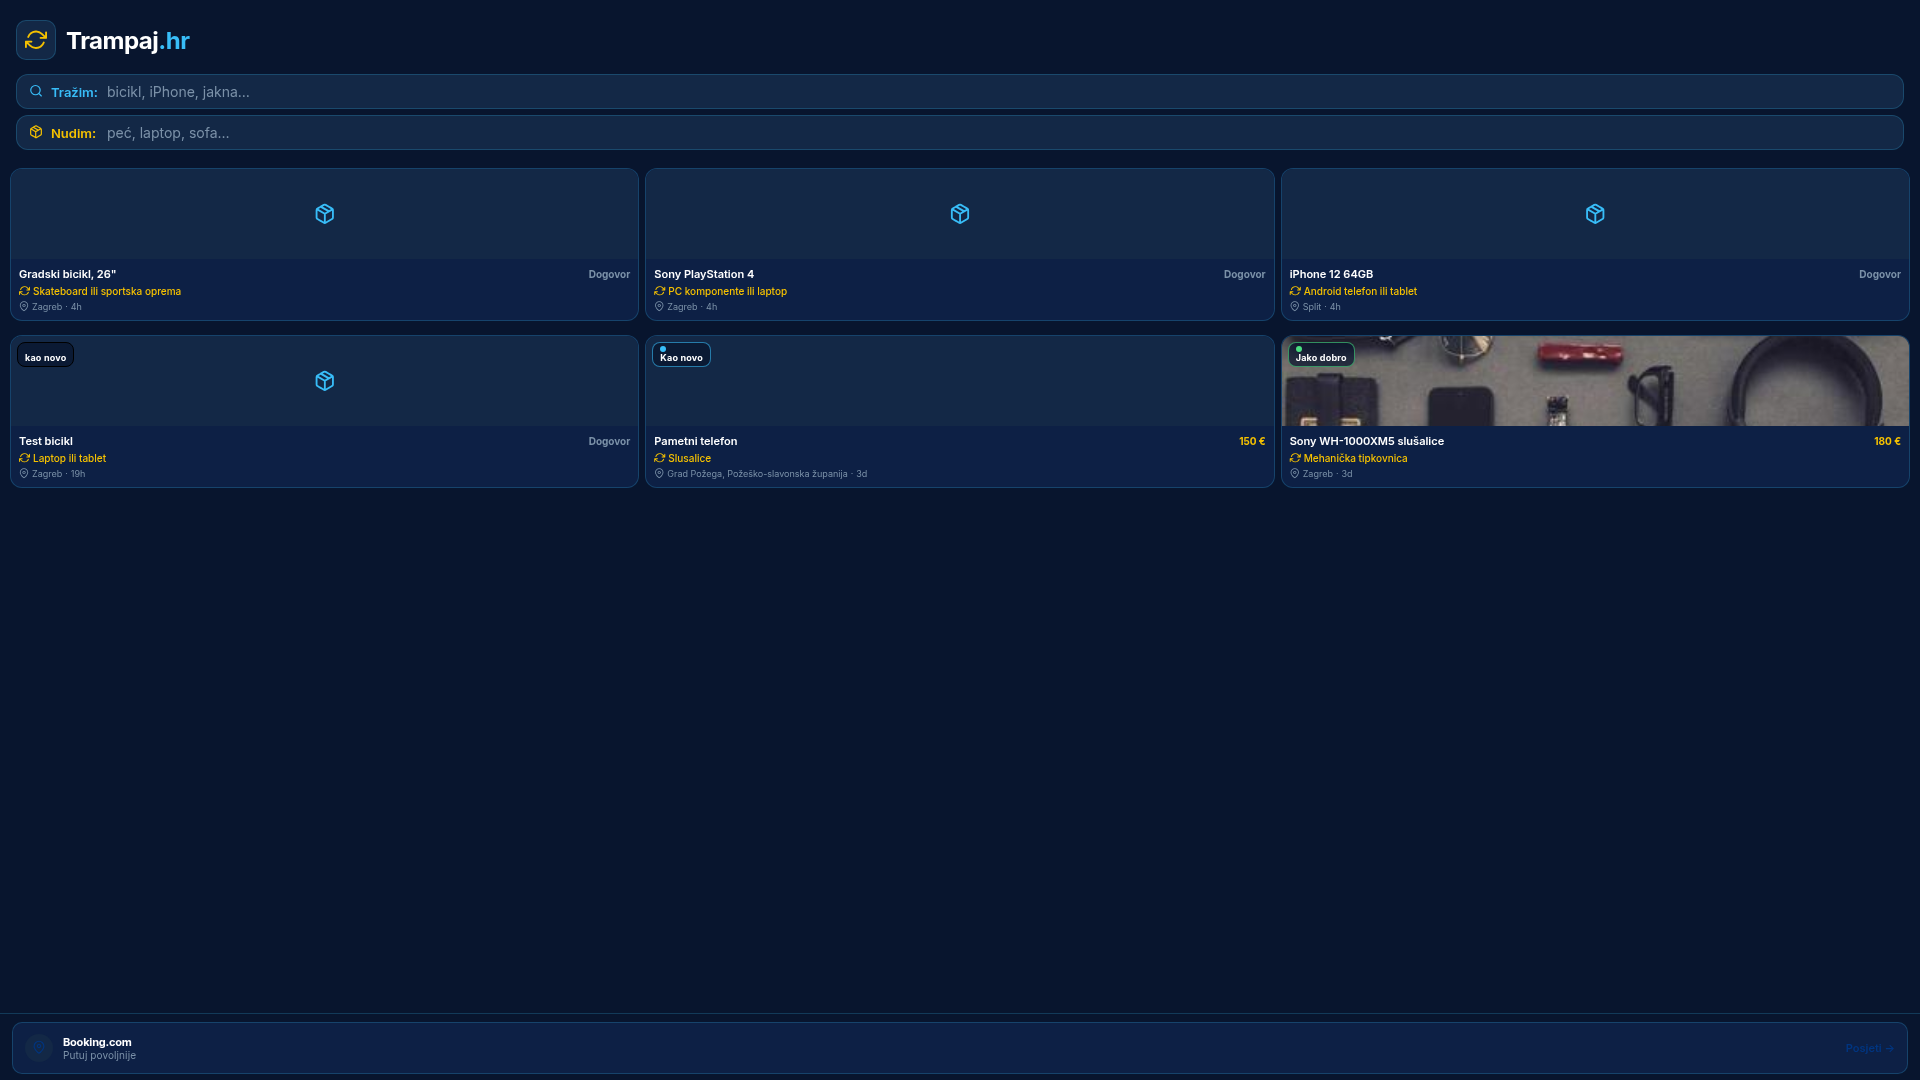
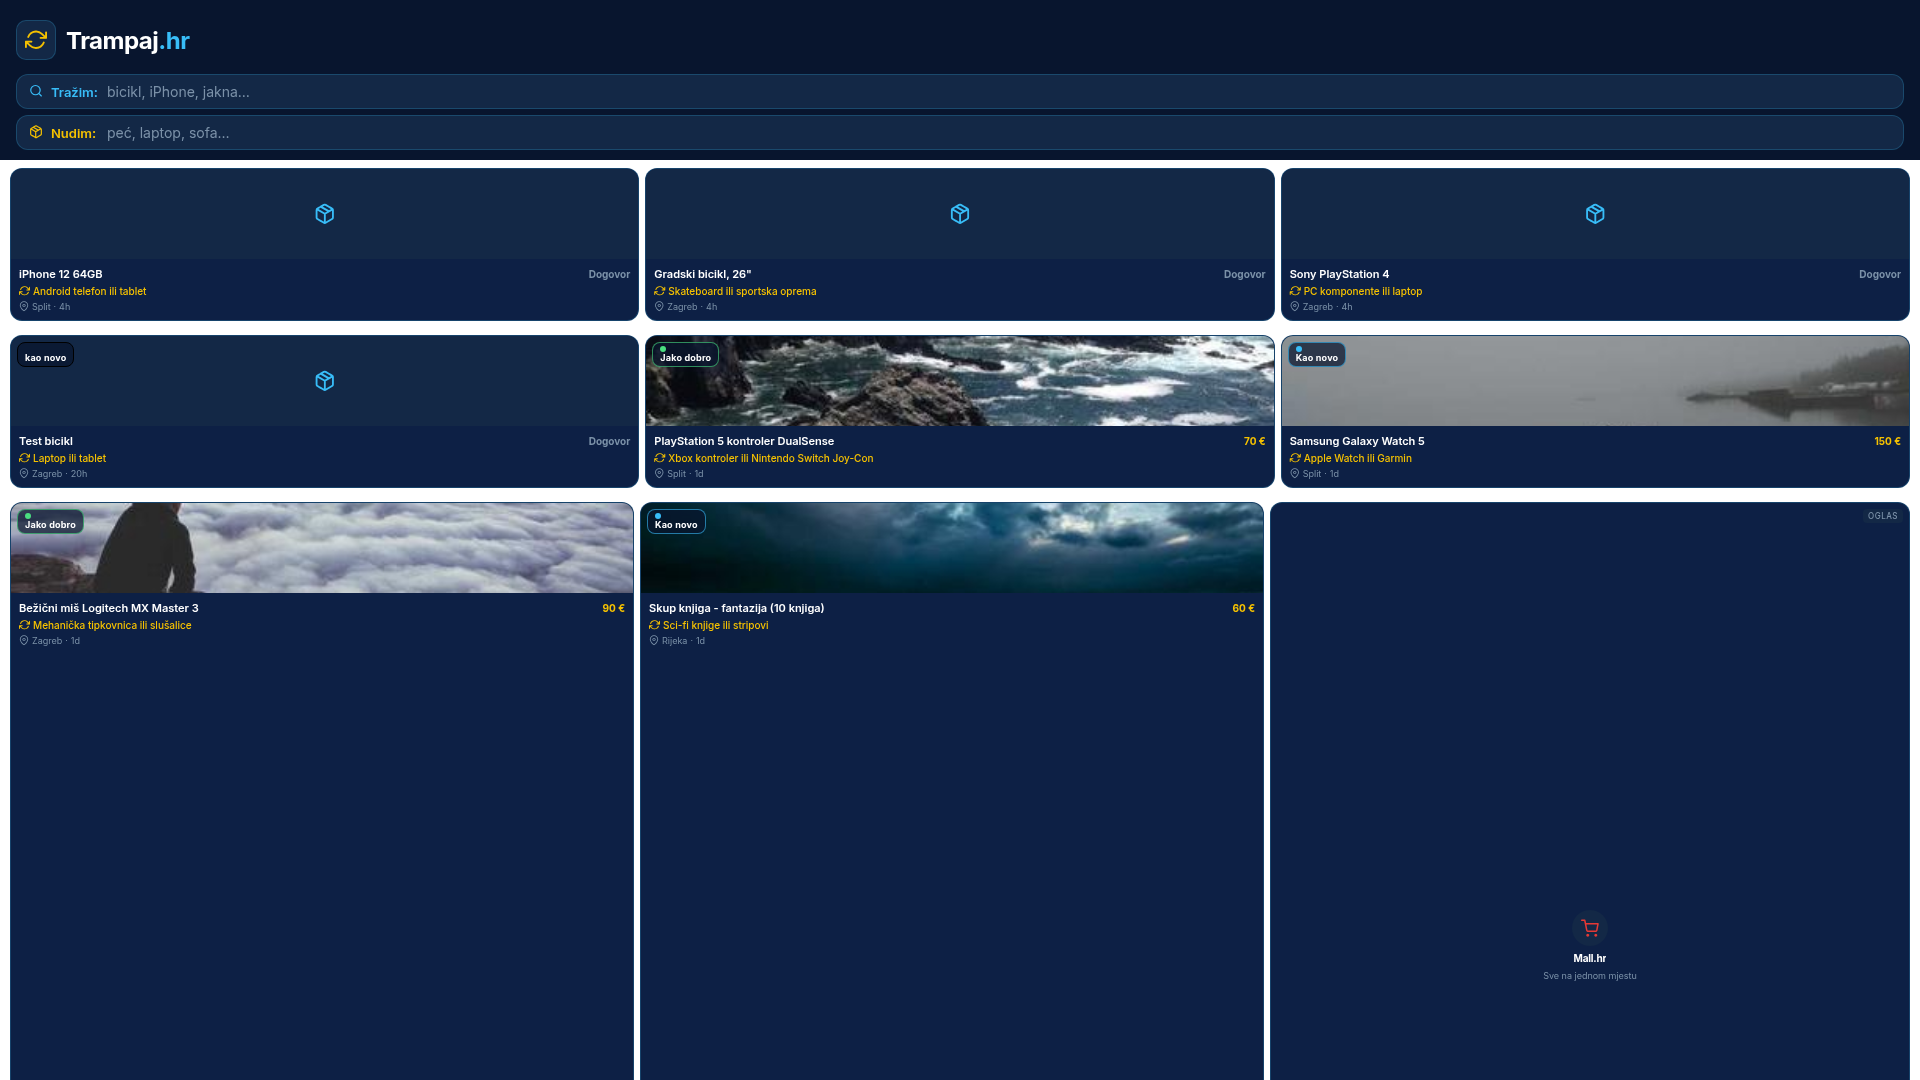
Add more demo listings and improve seeding logic
Update `seedIfEmpty` in `index.ts` to seed all 28 demo listings with a threshold of >= 20, and add a duplicate check by title. Also, install `pg` package in `scripts/package.json` and `pnpm-lock.yaml`.

Replit-Commit-Author: Agent
Replit-Commit-Session-Id: cd74122b-124f-4e06-a3ed-a6dc597d5de4
Replit-Commit-Checkpoint-Type: full_checkpoint
Replit-Commit-Event-Id: b7b88802-455f-4262-8d9c-b777fb00061b
Replit-Commit-Screenshot-Url: https://storage.googleapis.com/screenshot-production-us-central1/88ef2a6c-7a33-487b-979b-872bea2e7663/cd74122b-124f-4e06-a3ed-a6dc597d5de4/6wIajJ3
Replit-Helium-Checkpoint-Created: true

Changed region(s): [[0.0, 0.1222, 1.0, 1.0], [0.8125, 0.8861, 0.8438, 0.9167]]

diff --git a/scripts/src/seed-demo-listings.ts b/scripts/src/seed-demo-listings.ts
@@ -1,0 +1,93 @@
+import pg from "pg";
+import { randomUUID } from "crypto";
+
+const { Pool } = pg;
+const pool = new Pool({ connectionString: process.env.DATABASE_URL });
+
+const DEMO_USER_ID = "00000000-0000-0000-0000-000000000001";
+
+const ALL_SAMPLE_LISTINGS = [
+  { title: "Sony slušalice WH-1000XM4", description: "Odlične slušalice s redukcijom buke, malo korištene. U originalnoj kutiji, sve ispravno radi.", category: "Elektronika", condition: "Jako dobro", wantedFor: "Bežična tipkovnica ili miš visokog kvaliteta", price: 180, imageUris: '["https://picsum.photos/seed/headphones1/400/300"]', phone: "[phone redacted]", location: "Zagreb", packageSize: "small", packageBoxSize: "M", packageWeight: null, daysAgo: 2 },
+  { title: "Zimska jakna XL, North Face", description: "Topla zimska jakna, nosio je jednu sezonu. Boja tamno plava, odlično stanje.", category: "Odjeća", condition: "Jako dobro", wantedFor: "Ljetna jakna ili sportska oprema", price: null, imageUris: '["https://picsum.photos/seed/jacket2/400/300"]', phone: null, location: "Split", packageSize: "small", packageBoxSize: "M", packageWeight: null, daysAgo: 5 },
+  { title: "Skup knjiga - fantazija (10 knjiga)", description: "Komplet knjiga Patricka Rothfussa i Brandona Sandersona. Sve u odličnom stanju.", category: "Knjige", condition: "Kao novo", wantedFor: "Sci-fi knjige ili stripovi", price: 60, imageUris: '["https://picsum.photos/seed/books3/400/300"]', phone: "[phone redacted]", location: "Rijeka", packageSize: "medium", packageBoxSize: null, packageWeight: 4, daysAgo: 1 },
+  { title: `Bicikl - gradski, 26"`, description: "Gradski bicikl, servisiran prošle godine. Nova guma naprijed. Boja srebrna.", category: "Sport", condition: "Dobro", wantedFor: "Roleri ili električni romobil", price: 350, imageUris: '["https://picsum.photos/seed/bicycle4/400/300"]', phone: "[phone redacted]", location: "Osijek", packageSize: "large", packageBoxSize: null, packageWeight: null, daysAgo: 3 },
+  { title: "Stolna lampa - industrijski stil", description: "Metalna lampa, crna boja, LED žarulja uključena. Idealna za radni stol.", category: "Namještaj", condition: "Dobro", wantedFor: "Polica za knjige ili mali stol", price: null, imageUris: '["https://picsum.photos/seed/lamp5/400/300"]', phone: null, location: "Zagreb", packageSize: "medium", packageBoxSize: null, packageWeight: 3, daysAgo: 7 },
+  { title: "Roleri Rollerblade, vel. 42", description: "Inline roleri u odličnom stanju, korišteni svega par puta. Kaciga uključena.", category: "Sport", condition: "Kao novo", wantedFor: "Bicikl gradski ili električni romobil", price: 120, imageUris: '["https://picsum.photos/seed/skates6/400/300"]', phone: "[phone redacted]", location: "Zagreb", packageSize: "small", packageBoxSize: "L", packageWeight: null, daysAgo: 2 },
+  { title: "Bežični miš Logitech MX Master 3", description: "Premium miš, ergonomski, savršen za dugotrajni rad. Baterija traje 70 dana.", category: "Elektronika", condition: "Jako dobro", wantedFor: "Mehanička tipkovnica ili slušalice", price: 90, imageUris: '["https://picsum.photos/seed/mouse7/400/300"]', phone: null, location: "Zagreb", packageSize: "small", packageBoxSize: "S", packageWeight: null, daysAgo: 1 },
+  { title: "iPad 9. generacija, 64GB", description: "iPad u odličnom stanju, s torbom i punjačem. Bez ogrebotina na ekranu.", category: "Elektronika", condition: "Jako dobro", wantedFor: "Laptop ili MacBook bilo koje generacije", price: 300, imageUris: '["https://picsum.photos/seed/ipad9/400/300"]', phone: "[phone redacted]", location: "Zagreb", packageSize: "small", packageBoxSize: "S", packageWeight: null, daysAgo: 3 },
+  { title: "Električna gitara + pojačalo", description: "Squier Stratocaster u crnoj boji + Fender pojačalo 15W. Savršeno za početnike.", category: "Glazba", condition: "Dobro", wantedFor: "Akustična gitara ili ukulele", price: 250, imageUris: '["https://picsum.photos/seed/guitar9/400/300"]', phone: "[phone redacted]", location: "Zagreb", packageSize: "large", packageBoxSize: null, packageWeight: null, daysAgo: 4 },
+  { title: "Dječja kolica Bugaboo", description: "Kolica u odličnom stanju, lako sklopiva. Sva dodatna oprema uključena.", category: "Djeca", condition: "Jako dobro", wantedFor: "Dječje autosjedalište ili hodalica", price: null, imageUris: '["https://picsum.photos/seed/pram10/400/300"]', phone: "[phone redacted]", location: "Zadar", packageSize: "large", packageBoxSize: null, packageWeight: null, daysAgo: 6 },
+  { title: "Samsung Galaxy Watch 5", description: "Pametni sat, 44mm, crni. Baterija drži 40h, GPS, NFC. Sve ispravno.", category: "Elektronika", condition: "Kao novo", wantedFor: "Apple Watch ili Garmin", price: 150, imageUris: '["https://picsum.photos/seed/watch11/400/300"]', phone: null, location: "Split", packageSize: "small", packageBoxSize: "S", packageWeight: null, daysAgo: 1 },
+  { title: "Teniski reket Wilson + torba", description: "Wilson Clash 100 reket + teniška torba. Žice nove, reket malo korišten.", category: "Sport", condition: "Jako dobro", wantedFor: "Badminton oprema ili squash reket", price: 120, imageUris: '["https://picsum.photos/seed/tennis12/400/300"]', phone: "[phone redacted]", location: "Zagreb", packageSize: "medium", packageBoxSize: null, packageWeight: 2, daysAgo: 2 },
+  { title: "Kuhinjski robot Kenwood Chef", description: "Moćan kuhinjski robot 1500W s priključcima za gnječenje, miješanje, ribanje. U kutiji.", category: "Kućanstvo", condition: "Jako dobro", wantedFor: "Aparat za kavu ili blender", price: 200, imageUris: '["https://picsum.photos/seed/robot13/400/300"]', phone: "[phone redacted]", location: "Varaždin", packageSize: "medium", packageBoxSize: null, packageWeight: 5, daysAgo: 8 },
+  { title: "Vintage Levi's 501 traperice, vel. 32", description: "Originalne vintage 501-ice, wash iz 90-ih. Odlično stanje, malo nošene.", category: "Odjeća", condition: "Jako dobro", wantedFor: "Vintage majice ili denim jakna", price: 45, imageUris: '["https://picsum.photos/seed/levis14/400/300"]', phone: null, location: "Zagreb", packageSize: "small", packageBoxSize: "M", packageWeight: null, daysAgo: 3 },
+  { title: "DJI Mavic Mini 2 dron", description: "Dron u kutiji sa svim opremama. 3 baterije, punjač, torba. Letio par puta.", category: "Elektronika", condition: "Kao novo", wantedFor: "Akcijska kamera ili gimbal", price: 380, imageUris: '["https://picsum.photos/seed/drone15/400/300"]', phone: "[phone redacted]", location: "Dubrovnik", packageSize: "small", packageBoxSize: "L", packageWeight: null, daysAgo: 2 },
+  { title: "Bonsai drvo - ficus, 15 godina star", description: "Odrasli ficus bonsai u keramičkoj posudi. Visina 35cm. Lako ga je održavati.", category: "Vrt", condition: "Dobro", wantedFor: "Sukulenti ili kaktuski kolekcija", price: null, imageUris: '["https://picsum.photos/seed/bonsai16/400/300"]', phone: "[phone redacted]", location: "Karlovac", packageSize: "medium", packageBoxSize: null, packageWeight: 3, daysAgo: 10 },
+  { title: "PlayStation 5 kontroler DualSense", description: "Sony PS5 kontroler, bijeli. Haptic feedback, adaptivni okidači, punjač u kutiji.", category: "Elektronika", condition: "Jako dobro", wantedFor: "Xbox kontroler ili Nintendo Switch Joy-Con", price: 70, imageUris: '["https://picsum.photos/seed/ps5ctrl17/400/300"]', phone: null, location: "Split", packageSize: "small", packageBoxSize: "M", packageWeight: null, daysAgo: 1 },
+  { title: "Kožna sofa - trosjed, smeđa", description: "Kvalitetna kožna sofa, malo izlizano sjedalo ali strukturno savršeno. Dostava moguća.", category: "Namještaj", condition: "Dobro", wantedFor: "Blagovaonski stol ili stolice", price: 500, imageUris: '["https://picsum.photos/seed/sofa18/400/300"]', phone: "[phone redacted]", location: "Zagreb", packageSize: "large", packageBoxSize: null, packageWeight: null, daysAgo: 12 },
+  { title: "Canon EOS 250D + objektiv 18-55mm", description: "DSLR fotoaparat za početnike, 24MP. Samo 3000 okidanja. Torba i 2 baterije.", category: "Elektronika", condition: "Kao novo", wantedFor: "Mirrorless fotoaparat ili objektiv 50mm", price: 450, imageUris: '["https://picsum.photos/seed/canon19/400/300"]', phone: "[phone redacted]", location: "Rijeka", packageSize: "small", packageBoxSize: "L", packageWeight: null, daysAgo: 4 },
+  { title: "Snowboard komplet 155cm", description: "Snowboard 155cm + vezovi + cipele vel. 43. Korišten 2 sezone.", category: "Sport", condition: "Dobro", wantedFor: "Skije s vezovima ili splitboard", price: 280, imageUris: '["https://picsum.photos/seed/snowboard20/400/300"]', phone: "[phone redacted]", location: "Zagreb", packageSize: "large", packageBoxSize: null, packageWeight: null, daysAgo: 15 },
+  { title: "Saksofon alto - Yamaha YAS-280", description: "Alto saksofon za početnike i amatere. Dolazi s futrolom i notama.", category: "Glazba", condition: "Jako dobro", wantedFor: "Klavijatura ili truba", price: 350, imageUris: '["https://picsum.photos/seed/sax21/400/300"]', phone: null, location: "Osijek", packageSize: "medium", packageBoxSize: null, packageWeight: 4, daysAgo: 5 },
+  { title: "Survival oprema komplet", description: "Set za preživljavanje: šator 2 mjesta, vreća za spavanje -10°C, headlamp, nož.", category: "Sport", condition: "Jako dobro", wantedFor: "Kajakaška oprema ili penjačka", price: 150, imageUris: '["https://picsum.photos/seed/survival22/400/300"]', phone: "[phone redacted]", location: "Karlovac", packageSize: "medium", packageBoxSize: null, packageWeight: 6, daysAgo: 7 },
+  { title: "Espresso aparat De'Longhi Dedica", description: "Slim dizajn, 15 bar pritisak. Savršeno kafe svaki put. U odličnom stanju.", category: "Kućanstvo", condition: "Jako dobro", wantedFor: "French press komplet ili Moka lonac set", price: 100, imageUris: '["https://picsum.photos/seed/espresso23/400/300"]', phone: null, location: "Zagreb", packageSize: "small", packageBoxSize: "L", packageWeight: null, daysAgo: 2 },
+  { title: "Yoga oprema komplet - prostirka + blokovi", description: "Manduka PRO prostirka + 2 pluta bloka + remen. Sve kao novo.", category: "Sport", condition: "Kao novo", wantedFor: "Pilates oprema ili fitnes gume", price: null, imageUris: '["https://picsum.photos/seed/yoga24/400/300"]', phone: "[phone redacted]", location: "Zagreb", packageSize: "medium", packageBoxSize: null, packageWeight: 3, daysAgo: 3 },
+  { title: "Električni romobil Xiaomi Pro 2", description: "E-romobil domet 45km, max 25km/h. Malo korišten, punjač u kutiji.", category: "Prijevoz", condition: "Jako dobro", wantedFor: "Električni bicikl ili skateboard", price: 350, imageUris: '["https://picsum.photos/seed/scooter25/400/300"]', phone: "[phone redacted]", location: "Split", packageSize: "large", packageBoxSize: null, packageWeight: null, daysAgo: 6 },
+  { title: "Uljana slika - apstraktan motiv 80x60cm", description: "Ručno rađena uljana slika na platnu. Savršeno za dnevni boravak.", category: "Umjetnost", condition: "Kao novo", wantedFor: "Skulptura ili fotografska grafika", price: 80, imageUris: '["https://picsum.photos/seed/painting26/400/300"]', phone: null, location: "Zagreb", packageSize: "medium", packageBoxSize: null, packageWeight: 2, daysAgo: 9 },
+  { title: "3D printer - Prusa Mini+", description: "Prusa Mini+ build volume 18x18x18cm. Malo korišten, kalibriran. Filament uključen.", category: "Elektronika", condition: "Jako dobro", wantedFor: "CNC glodalica ili laser gravir", price: 400, imageUris: '["https://picsum.photos/seed/printer27/400/300"]', phone: "[phone redacted]", location: "Zagreb", packageSize: "medium", packageBoxSize: null, packageWeight: 4, daysAgo: 5 },
+  { title: "Kolekcija LEGO Star Wars - 5 setova", description: "5 složenih LEGO setova SW, sve figure, uputstva, originalne kutije. Bez nedostajućih dijelova.", category: "Igračke", condition: "Jako dobro", wantedFor: "LEGO Technic ili kolekcija Funko Pop", price: 220, imageUris: '["https://picsum.photos/seed/lego28/400/300"]', phone: null, location: "Varaždin", packageSize: "medium", packageBoxSize: null, packageWeight: 5, daysAgo: 4 },
+];
+
+async function main() {
+  const client = await pool.connect();
+  try {
+    // Ensure demo user exists
+    const userCheck = await client.query(
+      "SELECT id FROM users WHERE id = $1",
+      [DEMO_USER_ID]
+    );
+    if (userCheck.rowCount === 0) {
+      await client.query(
+        `INSERT INTO users (id, username, email, password_hash, is_verified, created_at, updated_at)
+         VALUES ($1, $2, $3, $4, true, NOW(), NOW())
+         ON CONFLICT (id) DO NOTHING`,
+        [DEMO_USER_ID, "TrampaDemo", "[email redacted]", "placeholder_hash"]
+      );
+      console.log("Created TrampaDemo user");
+    }
+
+    // Fetch existing titles
+    const existingRes = await client.query("SELECT title FROM listings");
+    const existingTitles = new Set(existingRes.rows.map((r: { title: string }) => r.title));
+
+    let inserted = 0;
+    let skipped = 0;
+
+    for (const l of ALL_SAMPLE_LISTINGS) {
+      if (existingTitles.has(l.title)) { skipped++; continue; }
+      const createdAt = new Date(Date.now() - l.daysAgo * 86400000);
+      await client.query(
+        `INSERT INTO listings
+           (id, user_id, title, description, category, condition, wanted_for, price,
+            image_uris, phone, location, package_size, package_box_size, package_weight,
+            status, moderation_status, nudim_tags, trazim_tags, created_at, updated_at)
+         VALUES ($1,$2,$3,$4,$5,$6,$7,$8,$9,$10,$11,$12,$13,$14,'active','active','[]','[]',$15,$15)`,
+        [
+          randomUUID(), DEMO_USER_ID, l.title, l.description, l.category,
+          l.condition, l.wantedFor, l.price,
+          l.imageUris, l.phone, l.location,
+          l.packageSize, l.packageBoxSize, l.packageWeight,
+          createdAt,
+        ]
+      );
+      inserted++;
+    }
+
+    const countRes = await client.query("SELECT COUNT(*) FROM listings");
+    console.log(`Done — inserted: ${inserted}, skipped (duplicate): ${skipped}, total in DB: ${countRes.rows[0].count}`);
+  } finally {
+    client.release();
+    await pool.end();
+  }
+}
+
+main().catch((e) => { console.error(e); process.exit(1); });

diff --git a/artifacts/api-server/src/index.ts b/artifacts/api-server/src/index.ts
@@ -49,7 +49,7 @@ async function initStripe() {
 async function seedIfEmpty() {
   try {
     const [row] = await db.select({ c: count() }).from(listingsTable);
-    if ((row?.c ?? 0) > 0) return;
+    if ((row?.c ?? 0) >= 20) return; // already seeded enough
 
     const DEMO_USER_ID = "00000000-0000-0000-0000-000000000001";
     const existingUser = await db.select({ id: usersTable.id })
@@ -66,18 +66,45 @@ async function seedIfEmpty() {
       });
     }
 
+    // Fetch existing titles to avoid duplicates when re-seeding a partially-filled DB
+    const existingRows = await db.select({ title: listingsTable.title }).from(listingsTable);
+    const existingTitles = new Set(existingRows.map((r) => r.title));
+
     const demoListings = [
-      { title: "Sony slušalice WH-1000XM4", description: "Odlične slušalice s redukcijom buke, malo korištene. U originalnoj kutiji, sve ispravno radi.", category: "Elektronika", condition: "Jako dobro", wantedFor: "Bežična tipkovnica ili miš visokog kvaliteta", price: 180, imageUris: '["https://picsum.photos/seed/headphones1/400/300"]', phone: "[phone redacted]", location: "Zagreb", packageSize: "small", packageBoxSize: "M" },
-      { title: "Zimska jakna XL, North Face", description: "Topla zimska jakna, nosio je jednu sezonu. Boja tamno plava, odlično stanje.", category: "Odjeća", condition: "Jako dobro", wantedFor: "Ljetna jakna ili sportska oprema", price: null, imageUris: '["https://picsum.photos/seed/jacket2/400/300"]', phone: null, location: "Split", packageSize: "small", packageBoxSize: "M" },
-      { title: "Skup knjiga - fantazija (10 knjiga)", description: "Komplet knjiga Patricka Rothfussa i Brandona Sandersona. Sve u odličnom stanju.", category: "Knjige", condition: "Kao novo", wantedFor: "Sci-fi knjige ili stripovi", price: 60, imageUris: '["https://picsum.photos/seed/books3/400/300"]', phone: "[phone redacted]", location: "Rijeka", packageSize: "medium", packageBoxSize: null },
-      { title: "Bicikl - gradski, 26\"", description: "Gradski bicikl, servisiran prošle godine. Nova guma naprijed. Boja srebrna.", category: "Sport", condition: "Dobro", wantedFor: "Roleri ili električni romobil", price: 350, imageUris: '["https://picsum.photos/seed/bicycle4/400/300"]', phone: "[phone redacted]", location: "Osijek", packageSize: "large", packageBoxSize: null },
-      { title: "Stolna lampa - industrijski stil", description: "Metalna lampa, crna boja, LED žarulja uključena. Idealna za radni stol.", category: "Namještaj", condition: "Dobro", wantedFor: "Polica za knjige ili mali stol", price: null, imageUris: '["https://picsum.photos/seed/lamp5/400/300"]', phone: null, location: "Zagreb", packageSize: "medium", packageBoxSize: null },
-      { title: "Roleri Rollerblade, vel. 42", description: "Inline roleri u odličnom stanju, korišteni svega par puta. Kaciga uključena.", category: "Sport", condition: "Kao novo", wantedFor: "Bicikl gradski ili električni romobil", price: 120, imageUris: '["https://picsum.photos/seed/skates6/400/300"]', phone: "[phone redacted]", location: "Zagreb", packageSize: "small", packageBoxSize: "L" },
-      { title: "Bežični miš Logitech MX Master 3", description: "Premium miš, ergonomski, savršen za dugotrajni rad. Baterija traje 70 dana.", category: "Elektronika", condition: "Jako dobro", wantedFor: "Mehanička tipkovnica ili slušalice", price: 90, imageUris: '["https://picsum.photos/seed/mouse7/400/300"]', phone: null, location: "Zagreb", packageSize: "small", packageBoxSize: "S" },
-      { title: "iPad 9. generacija, 64GB", description: "iPad u odličnom stanju, s torbom i punjačem. Bez ogrebotina na ekranu.", category: "Elektronika", condition: "Jako dobro", wantedFor: "Laptop ili MacBook bilo koje generacije", price: 300, imageUris: '["https://picsum.photos/seed/ipad9/400/300"]', phone: "[phone redacted]", location: "Zagreb", packageSize: "small", packageBoxSize: "S" },
+      { title: "Sony slušalice WH-1000XM4", description: "Odlične slušalice s redukcijom buke, malo korištene. U originalnoj kutiji, sve ispravno radi.", category: "Elektronika", condition: "Jako dobro", wantedFor: "Bežična tipkovnica ili miš visokog kvaliteta", price: 180, imageUris: '["https://picsum.photos/seed/headphones1/400/300"]', phone: "[phone redacted]", location: "Zagreb", packageSize: "small", packageBoxSize: "M", daysAgo: 2 },
+      { title: "Zimska jakna XL, North Face", description: "Topla zimska jakna, nosio je jednu sezonu. Boja tamno plava, odlično stanje.", category: "Odjeća", condition: "Jako dobro", wantedFor: "Ljetna jakna ili sportska oprema", price: null, imageUris: '["https://picsum.photos/seed/jacket2/400/300"]', phone: null, location: "Split", packageSize: "small", packageBoxSize: "M", daysAgo: 5 },
+      { title: "Skup knjiga - fantazija (10 knjiga)", description: "Komplet knjiga Patricka Rothfussa i Brandona Sandersona. Sve u odličnom stanju.", category: "Knjige", condition: "Kao novo", wantedFor: "Sci-fi knjige ili stripovi", price: 60, imageUris: '["https://picsum.photos/seed/books3/400/300"]', phone: "[phone redacted]", location: "Rijeka", packageSize: "medium", packageBoxSize: null, daysAgo: 1 },
+      { title: `Bicikl - gradski, 26"`, description: "Gradski bicikl, servisiran prošle godine. Nova guma naprijed. Boja srebrna.", category: "Sport", condition: "Dobro", wantedFor: "Roleri ili električni romobil", price: 350, imageUris: '["https://picsum.photos/seed/bicycle4/400/300"]', phone: "[phone redacted]", location: "Osijek", packageSize: "large", packageBoxSize: null, daysAgo: 3 },
+      { title: "Stolna lampa - industrijski stil", description: "Metalna lampa, crna boja, LED žarulja uključena. Idealna za radni stol.", category: "Namještaj", condition: "Dobro", wantedFor: "Polica za knjige ili mali stol", price: null, imageUris: '["https://picsum.photos/seed/lamp5/400/300"]', phone: null, location: "Zagreb", packageSize: "medium", packageBoxSize: null, daysAgo: 7 },
+      { title: "Roleri Rollerblade, vel. 42", description: "Inline roleri u odličnom stanju, korišteni svega par puta. Kaciga uključena.", category: "Sport", condition: "Kao novo", wantedFor: "Bicikl gradski ili električni romobil", price: 120, imageUris: '["https://picsum.photos/seed/skates6/400/300"]', phone: "[phone redacted]", location: "Zagreb", packageSize: "small", packageBoxSize: "L", daysAgo: 2 },
+      { title: "Bežični miš Logitech MX Master 3", description: "Premium miš, ergonomski, savršen za dugotrajni rad. Baterija traje 70 dana.", category: "Elektronika", condition: "Jako dobro", wantedFor: "Mehanička tipkovnica ili slušalice", price: 90, imageUris: '["https://picsum.photos/seed/mouse7/400/300"]', phone: null, location: "Zagreb", packageSize: "small", packageBoxSize: "S", daysAgo: 1 },
+      { title: "iPad 9. generacija, 64GB", description: "iPad u odličnom stanju, s torbom i punjačem. Bez ogrebotina na ekranu.", category: "Elektronika", condition: "Jako dobro", wantedFor: "Laptop ili MacBook bilo koje generacije", price: 300, imageUris: '["https://picsum.photos/seed/ipad9/400/300"]', phone: "[phone redacted]", location: "Zagreb", packageSize: "small", packageBoxSize: "S", daysAgo: 3 },
+      { title: "Električna gitara + pojačalo", description: "Squier Stratocaster u crnoj boji + Fender pojačalo 15W. Savršeno za početnike.", category: "Glazba", condition: "Dobro", wantedFor: "Akustična gitara ili ukulele", price: 250, imageUris: '["https://picsum.photos/seed/guitar9/400/300"]', phone: "[phone redacted]", location: "Zagreb", packageSize: "large", packageBoxSize: null, daysAgo: 4 },
+      { title: "Dječja kolica Bugaboo", description: "Kolica u odličnom stanju, lako sklopiva. Sva dodatna oprema uključena.", category: "Djeca", condition: "Jako dobro", wantedFor: "Dječje autosjedalište ili hodalica", price: null, imageUris: '["https://picsum.photos/seed/pram10/400/300"]', phone: "[phone redacted]", location: "Zadar", packageSize: "large", packageBoxSize: null, daysAgo: 6 },
+      { title: "Samsung Galaxy Watch 5", description: "Pametni sat, 44mm, crni. Baterija drži 40h, GPS, NFC. Sve ispravno.", category: "Elektronika", condition: "Kao novo", wantedFor: "Apple Watch ili Garmin", price: 150, imageUris: '["https://picsum.photos/seed/watch11/400/300"]', phone: null, location: "Split", packageSize: "small", packageBoxSize: "S", daysAgo: 1 },
+      { title: "Teniski reket Wilson + torba", description: "Wilson Clash 100 reket + teniška torba. Žice nove, reket malo korišten.", category: "Sport", condition: "Jako dobro", wantedFor: "Badminton oprema ili squash reket", price: 120, imageUris: '["https://picsum.photos/seed/tennis12/400/300"]', phone: "[phone redacted]", location: "Zagreb", packageSize: "medium", packageBoxSize: null, daysAgo: 2 },
+      { title: "Kuhinjski robot Kenwood Chef", description: "Moćan kuhinjski robot 1500W s priključcima za gnječenje, miješanje, ribanje. U kutiji.", category: "Kućanstvo", condition: "Jako dobro", wantedFor: "Aparat za kavu ili blender", price: 200, imageUris: '["https://picsum.photos/seed/robot13/400/300"]', phone: "[phone redacted]", location: "Varaždin", packageSize: "medium", packageBoxSize: null, daysAgo: 8 },
+      { title: "Vintage Levi's 501 traperice, vel. 32", description: "Originalne vintage 501-ice, wash iz 90-ih. Odlično stanje, malo nošene.", category: "Odjeća", condition: "Jako dobro", wantedFor: "Vintage majice ili denim jakna", price: 45, imageUris: '["https://picsum.photos/seed/levis14/400/300"]', phone: null, location: "Zagreb", packageSize: "small", packageBoxSize: "M", daysAgo: 3 },
+      { title: "DJI Mavic Mini 2 dron", description: "Dron u kutiji sa svim opremama. 3 baterije, punjač, torba. Letio par puta.", category: "Elektronika", condition: "Kao novo", wantedFor: "Akcijska kamera ili gimbal", price: 380, imageUris: '["https://picsum.photos/seed/drone15/400/300"]', phone: "[phone redacted]", location: "Dubrovnik", packageSize: "small", packageBoxSize: "L", daysAgo: 2 },
+      { title: "Bonsai drvo - ficus, 15 godina star", description: "Odrasli ficus bonsai u keramičkoj posudi. Visina 35cm. Lako ga je održavati.", category: "Vrt", condition: "Dobro", wantedFor: "Sukulenti ili kaktuski kolekcija", price: null, imageUris: '["https://picsum.photos/seed/bonsai16/400/300"]', phone: "[phone redacted]", location: "Karlovac", packageSize: "medium", packageBoxSize: null, daysAgo: 10 },
+      { title: "PlayStation 5 kontroler DualSense", description: "Sony PS5 kontroler, bijeli. Haptic feedback, adaptivni okidači, punjač u kutiji.", category: "Elektronika", condition: "Jako dobro", wantedFor: "Xbox kontroler ili Nintendo Switch Joy-Con", price: 70, imageUris: '["https://picsum.photos/seed/ps5ctrl17/400/300"]', phone: null, location: "Split", packageSize: "small", packageBoxSize: "M", daysAgo: 1 },
+      { title: "Kožna sofa - trosjed, smeđa", description: "Kvalitetna kožna sofa, malo izlizano sjedalo ali strukturno savršeno. Dostava moguća.", category: "Namještaj", condition: "Dobro", wantedFor: "Blagovaonski stol ili stolice", price: 500, imageUris: '["https://picsum.photos/seed/sofa18/400/300"]', phone: "[phone redacted]", location: "Zagreb", packageSize: "large", packageBoxSize: null, daysAgo: 12 },
+      { title: "Canon EOS 250D + objektiv 18-55mm", description: "DSLR fotoaparat za početnike, 24MP. Samo 3000 okidanja. Torba i 2 baterije.", category: "Elektronika", condition: "Kao novo", wantedFor: "Mirrorless fotoaparat ili objektiv 50mm", price: 450, imageUris: '["https://picsum.photos/seed/canon19/400/300"]', phone: "[phone redacted]", location: "Rijeka", packageSize: "small", packageBoxSize: "L", daysAgo: 4 },
+      { title: "Snowboard komplet 155cm", description: "Snowboard 155cm + vezovi + cipele vel. 43. Korišten 2 sezone.", category: "Sport", condition: "Dobro", wantedFor: "Skije s vezovima ili splitboard", price: 280, imageUris: '["https://picsum.photos/seed/snowboard20/400/300"]', phone: "[phone redacted]", location: "Zagreb", packageSize: "large", packageBoxSize: null, daysAgo: 15 },
+      { title: "Saksofon alto - Yamaha YAS-280", description: "Alto saksofon za početnike i amatere. Dolazi s futrolom i notama.", category: "Glazba", condition: "Jako dobro", wantedFor: "Klavijatura ili truba", price: 350, imageUris: '["https://picsum.photos/seed/sax21/400/300"]', phone: null, location: "Osijek", packageSize: "medium", packageBoxSize: null, daysAgo: 5 },
+      { title: "Survival oprema komplet", description: "Set za preživljavanje: šator 2 mjesta, vreća za spavanje -10°C, headlamp, nož.", category: "Sport", condition: "Jako dobro", wantedFor: "Kajakaška oprema ili penjačka", price: 150, imageUris: '["https://picsum.photos/seed/survival22/400/300"]', phone: "[phone redacted]", location: "Karlovac", packageSize: "medium", packageBoxSize: null, daysAgo: 7 },
+      { title: "Espresso aparat De'Longhi Dedica", description: "Slim dizajn, 15 bar pritisak. Savršeno kafe svaki put. U odličnom stanju.", category: "Kućanstvo", condition: "Jako dobro", wantedFor: "French press komplet ili Moka lonac set", price: 100, imageUris: '["https://picsum.photos/seed/espresso23/400/300"]', phone: null, location: "Zagreb", packageSize: "small", packageBoxSize: "L", daysAgo: 2 },
+      { title: "Yoga oprema komplet - prostirka + blokovi", description: "Manduka PRO prostirka + 2 pluta bloka + remen. Sve kao novo.", category: "Sport", condition: "Kao novo", wantedFor: "Pilates oprema ili fitnes gume", price: null, imageUris: '["https://picsum.photos/seed/yoga24/400/300"]', phone: "[phone redacted]", location: "Zagreb", packageSize: "medium", packageBoxSize: null, daysAgo: 3 },
+      { title: "Električni romobil Xiaomi Pro 2", description: "E-romobil domet 45km, max 25km/h. Malo korišten, punjač u kutiji.", category: "Prijevoz", condition: "Jako dobro", wantedFor: "Električni bicikl ili skateboard", price: 350, imageUris: '["https://picsum.photos/seed/scooter25/400/300"]', phone: "[phone redacted]", location: "Split", packageSize: "large", packageBoxSize: null, daysAgo: 6 },
+      { title: "Uljana slika - apstraktan motiv 80x60cm", description: "Ručno rađena uljana slika na platnu. Savršeno za dnevni boravak.", category: "Umjetnost", condition: "Kao novo", wantedFor: "Skulptura ili fotografska grafika", price: 80, imageUris: '["https://picsum.photos/seed/painting26/400/300"]', phone: null, location: "Zagreb", packageSize: "medium", packageBoxSize: null, daysAgo: 9 },
+      { title: "3D printer - Prusa Mini+", description: "Prusa Mini+ build volume 18x18x18cm. Malo korišten, kalibriran. Filament uključen.", category: "Elektronika", condition: "Jako dobro", wantedFor: "CNC glodalica ili laser gravir", price: 400, imageUris: '["https://picsum.photos/seed/printer27/400/300"]', phone: "[phone redacted]", location: "Zagreb", packageSize: "medium", packageBoxSize: null, daysAgo: 5 },
+      { title: "Kolekcija LEGO Star Wars - 5 setova", description: "5 složenih LEGO setova SW, sve figure, uputstva, originalne kutije. Bez nedostajućih dijelova.", category: "Igračke", condition: "Jako dobro", wantedFor: "LEGO Technic ili kolekcija Funko Pop", price: 220, imageUris: '["https://picsum.photos/seed/lego28/400/300"]', phone: null, location: "Varaždin", packageSize: "medium", packageBoxSize: null, daysAgo: 4 },
     ];
 
+    let seeded = 0;
     for (const l of demoListings) {
+      if (existingTitles.has(l.title)) continue;
+      const createdAt = new Date(Date.now() - l.daysAgo * 86400000);
       await db.insert(listingsTable).values({
         id: randomUUID(),
         userId: DEMO_USER_ID,
@@ -94,9 +121,12 @@ async function seedIfEmpty() {
         packageBoxSize: l.packageBoxSize ?? undefined,
         status: "active",
         moderationStatus: "active",
+        createdAt,
+        updatedAt: createdAt,
       });
+      seeded++;
     }
-    logger.info({ count: demoListings.length }, "Seeded demo listings on first start");
+    logger.info({ count: seeded }, "Seeded demo listings on first start");
   } catch (err) {
     logger.warn({ err }, "Demo seed skipped or failed");
   }